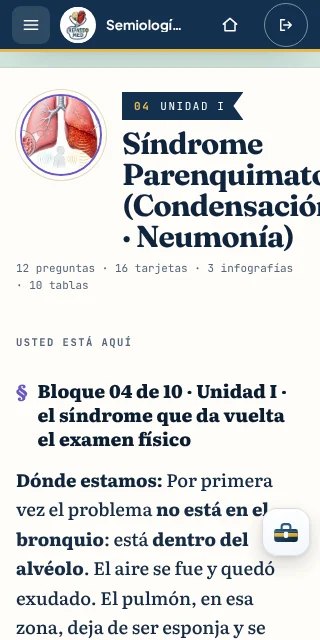
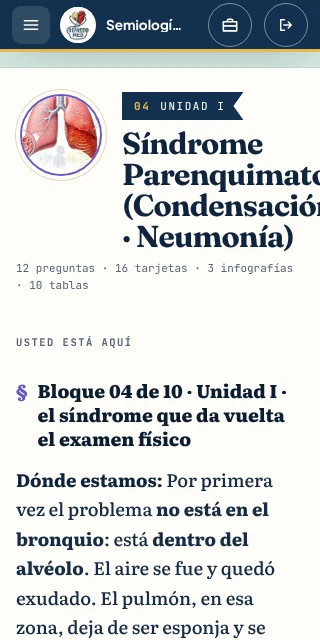
fix(semiologia-ii): ferramentas de estudio (caneta) não cobrem a leitura no celular (< 768 px, só no piloto)
- a maleta flutuante (#rm2-fab) e o trilho vertical da V2 saem da leitura: o controle vira o botão «Herramientas» da faixa fixa (delega o clique ao #rm2-fab original) e a toolbox abre como barra horizontal embaixo, com espaço reservado (--rm-dock-h)
- o botão da faixa não conta como «clique fora» da V2 (senão fechar com o dedo fechava e reabria); motor da caneta intocado
- «Materias» sai da faixa em ≤ 440 px (Volver arriba segue na gaveta)
- testes: sistema.test.cjs 124 (§11: 320/390, toque real, lápis, cor, grossura, escrita, persistência, goma, desfazer, fechar, índice); capturas e antes/depois da caneta

Claude-Session: https://claude.ai/code/session_01JLPWR64NLJn2bckj9LWwJP

Changed region(s): [[0.8125, 0.8125, 0.9688, 0.875], [0.6875, 0.0, 0.75, 0.0625]]

diff --git a/Repasso-Med-Site--main/Atual - Copia/assets/rm-materia-sistema.js b/Repasso-Med-Site--main/Atual - Copia/assets/rm-materia-sistema.js
@@ -389,6 +389,49 @@
     refletir();
   }
 
+  /* Ferramentas de estudio (lápis/marcador/goma): no celular o botão-maleta flutuante e o trilho vertical da V2 ficavam SOBRE tabelas e notas.
+     Só no piloto e só < 768 px (CSS): o botão da maleta vira um botão da faixa fixa (este) que DELEGA o clique ao #rm2-fab original, e a toolbox
+     abre como uma barra horizontal encostada embaixo (dock) com espaço reservado (--rm-dock-h) — o motor da caneta (traço, goma, gravação,
+     âncoras, estado armado) não é tocado: só posição/forma por CSS e este espelho de estado (aria-expanded / «armado»). */
+  var ICO_TOOLS = 'M4 8h16v11H4zM9 8V6a1 1 0 0 1 1-1h4a1 1 0 0 1 1 1v2M4 13h16';
+  function ferramentas() {
+    function ligar() {
+      if (!S) return true;
+      if (S.tools) return true;
+      var fab = document.getElementById('rm2-fab'), box = fab && fab.closest('.rm2-box');
+      if (!fab || !box) return false;
+      var b = ui('button', 'rm-sis-tools', { type: 'button', 'aria-label': 'Herramientas de estudio: lápiz, marcador y goma', title: 'Herramientas de estudio', 'aria-expanded': 'false', 'aria-controls': 'rm2-panel' });
+      var sv = document.createElementNS('http://www.w3.org/2000/svg', 'svg');
+      sv.setAttribute('viewBox', '0 0 24 24'); sv.setAttribute('width', '20'); sv.setAttribute('height', '20'); sv.setAttribute('fill', 'none'); sv.setAttribute('stroke', 'currentColor');
+      sv.setAttribute('stroke-width', '1.9'); sv.setAttribute('stroke-linecap', 'round'); sv.setAttribute('stroke-linejoin', 'round'); sv.setAttribute('aria-hidden', 'true');
+      var pt = document.createElementNS('http://www.w3.org/2000/svg', 'path'); pt.setAttribute('d', ICO_TOOLS); sv.appendChild(pt); b.appendChild(sv);
+      var out = q1(S.band, '.rm-sis-out'); S.band.insertBefore(b, out || null);
+      S.tools = b;
+      var sync = function () {
+        if (!S) return;
+        var open = box.classList.contains('open');
+        b.setAttribute('aria-expanded', String(open)); b.classList.toggle('is-open', open); b.classList.toggle('is-armed', fab.classList.contains('armed'));
+        var h = (open && getComputedStyle(box).display !== 'none') ? Math.round(box.getBoundingClientRect().height) : 0;
+        ROOT.style.setProperty('--rm-dock-h', h + 'px');
+      };
+      S.toolsSync = sync;
+      try { S.toolsMO = new MutationObserver(sync); S.toolsMO.observe(box, { attributes: true, attributeFilter: ['class'] }); S.toolsMO.observe(fab, { attributes: true, attributeFilter: ['class', 'aria-expanded'] }); } catch (e) {}
+      try { if (window.ResizeObserver) { S.toolsRO = new ResizeObserver(sync); S.toolsRO.observe(box); } } catch (e) {}
+      window.addEventListener('resize', sync);
+      /* A V2 minimiza a toolbox em qualquer pointerdown FORA dela e depois o clique reabriria (o botão da faixa não está dentro de .rm2-box):
+         com o dedo, tocar para FECHAR fecharia e reabriria. Este botão é o próprio FAB espelhado, então o pointerdown dele não conta como «fora». */
+      S.toolsPtr = function (e) { var t = e.target; if (t && t.closest && t.closest('.rm-sis-tools')) e.stopPropagation(); };
+      window.addEventListener('pointerdown', S.toolsPtr, true);
+      sync();
+      return true;
+    }
+    if (ligar()) return;
+    try {                                            // a toolbox da V2 é montada depois da aba: espera ela aparecer
+      S.toolsWait = new MutationObserver(function () { if (ligar()) { try { S.toolsWait.disconnect(); } catch (e) {} } });
+      S.toolsWait.observe(document.body, { childList: true });
+    } catch (e) {}
+  }
+
   /* «Inicio · índice de la materia» · «Bloque 04 · Síndrome Parenquimatoso» · «Modo · Preguntas» */
   function etiquetaPosicion() {
     if (!S || !S.pos) return;
@@ -462,6 +505,8 @@
       if (sec) ir(sec.el);
       return;
     }
+    var st2 = t.closest('.rm-sis-tools');
+    if (st2) { var fb = document.getElementById('rm2-fab'); if (fb) fb.click(); return; }
     var so = t.closest('.rm-sis-out');
     if (so) { var f = document.getElementById('logout-fab'); if (f) f.click(); return; }
     var p = t.closest('.rm-sis-pill');
@@ -529,6 +574,7 @@
       });
       if (S.lateral) S.mo.observe(S.lateral, { attributes: true, subtree: true, attributeFilter: ['aria-current'] });
     } catch (e) {}
+    ferramentas();
     refletir();
     if (window.RMLayout.pedirReposicao) window.RMLayout.pedirReposicao();    // as alturas mudaram: a tinta acompanha (API pública, coalescida)
     remedir();
@@ -546,6 +592,8 @@
     try { window.removeEventListener('scroll', S.h.stuck); window.removeEventListener('resize', S.h.stuck); } catch (e) {}
     ROOT.removeAttribute('data-rm-stuck');
     try { if (S.mo) S.mo.disconnect(); } catch (e) {}
+    try { if (S.toolsMO) S.toolsMO.disconnect(); if (S.toolsRO) S.toolsRO.disconnect(); if (S.toolsWait) S.toolsWait.disconnect(); window.removeEventListener('resize', S.toolsSync); if (S.toolsPtr) window.removeEventListener('pointerdown', S.toolsPtr, true); } catch (e) {}
+    ROOT.style.removeProperty('--rm-dock-h');
     NODOS.forEach(function (n) { if (n && n.parentNode) n.parentNode.removeChild(n); });
     ATRS.forEach(function (a) { try { a.e.removeAttribute(a.k); } catch (e) {} });
     TEXTOS.slice().reverse().forEach(function (x) { try { x.e.textContent = x.t; } catch (e) {} });

diff --git a/Repasso-Med-Site--main/Atual - Copia/assets/rm-materia-sistema.css b/Repasso-Med-Site--main/Atual - Copia/assets/rm-materia-sistema.css
@@ -208,6 +208,51 @@ html.rm-sis .rm-l2-band button.rm-sis-out:focus-visible { outline: 3px solid var
 html.rm-sis #materias-container { padding-bottom: calc(var(--rm-player-h, 0px) + var(--rm-safe-b, 0px) + 28px); }
 
 /* ---------------------------------------------------------------------
+   5-C · FERRAMENTAS DE ESTUDIO no celular (< 768 px, só no piloto)
+   A maleta flutuante (#rm2-fab) e o trilho vertical da V2 ficavam SOBRE tabelas e notas. Aqui: (1) o controle vira um botão da faixa fixa
+   (.rm-sis-tools, delega o clique ao #rm2-fab, que continua no DOM — oculto); (2) a toolbox abre como uma BARRA horizontal encostada embaixo
+   (dock), rolável de lado, com espaço reservado ao fim da leitura (--rm-dock-h, medido pelo JS). Só apresentação: o motor da caneta
+   (traço, goma, gravação, âncoras, estado armado, a rotina de abrir/fechar) é o original.
+   --------------------------------------------------------------------- */
+html.rm-sis .rm-sis-tools {
+  display: none; align-items: center; justify-content: center; flex: 0 0 auto; width: 44px; min-width: 44px; min-height: 44px; padding: 0; margin-left: 2px;
+  border: 1.5px solid rgba(255, 255, 255, .45); border-radius: 99px; background: transparent; color: #fff; cursor: pointer;
+}
+html.rm-sis .rm-sis-tools:hover { background: rgba(255, 255, 255, .14); }
+html.rm-sis .rm-sis-tools.is-open { background: rgba(255, 255, 255, .2); }
+html.rm-sis .rm-sis-tools.is-armed { border-color: var(--rm-gold); box-shadow: 0 0 0 2px rgba(233, 185, 73, .35); color: var(--rm-gold); }
+html.rm-sis .rm-l2-band button.rm-sis-tools:focus-visible { outline: 3px solid var(--rm-gold); outline-offset: 2px; }
+@media (max-width: 767.98px) {
+  html.rm-sis .rm-sis-tools { display: inline-flex; }
+  html.rm-sis.rm-l2 .rm2-fab { display: none !important; }                                   /* a maleta flutuante sai da leitura */
+  html.rm-sis.rm-l2 .rm2-box {
+    top: auto; transform: none; left: 0; right: 0; width: auto; display: none; gap: 0;
+    bottom: calc(var(--rm-player-h, 0px) + var(--rm-safe-b, 0px));
+  }
+  html.rm-sis.rm-l2 .rm2-box.open { display: block; }
+  html.rm-sis.rm-l2 .rm2-panel {
+    flex-direction: row; align-items: center; justify-content: flex-start; gap: 4px; width: 100%; max-width: none; box-sizing: border-box;
+    padding: 6px 10px calc(6px + env(safe-area-inset-bottom, 0px)); max-height: none; overflow-x: auto; overflow-y: hidden; -webkit-overflow-scrolling: touch;
+    border-radius: 16px 16px 0 0; border-width: 1px 0 0; border-color: rgba(16, 36, 61, .16);
+    background: var(--rm-paper); box-shadow: 0 -10px 24px -14px rgba(8, 23, 38, .45);
+    scrollbar-width: none;
+  }
+  html.rm-sis.rm-l2 .rm2-panel::-webkit-scrollbar { display: none; }
+  html.rm-sis.rm-l2 .rm2-panel .rm2-btn { flex: 0 0 44px; width: 44px; height: 44px; }
+  html.rm-sis.rm-l2 .rm2-panel .rm2-sub { flex-direction: row; padding: 0 4px; gap: 5px; flex: 0 0 auto; }
+  html.rm-sis.rm-l2 .rm2-panel .rm2-sub .rm2-sub { padding: 0; }
+  html.rm-sis.rm-l2 .rm2-panel .rm2-sw { width: 28px; height: 28px; flex: 0 0 28px; }
+  html.rm-sis.rm-l2 .rm2-panel .rm2-w { width: 32px; height: 28px; flex: 0 0 32px; }
+  html.rm-sis.rm-l2 .rm2-panel .rm2-sep { width: 1px; height: 28px; margin: 0 4px; flex: 0 0 1px; }
+  html.rm-sis.rm-l2 .rm2-btn.on::before { left: 11px; top: auto; bottom: -3px; width: 22px; height: 3px; }   /* marca dourada de «ativo» passa para baixo do ícone */
+  /* mensagens passageiras («Lápiz activo…») sobem para cima do dock em vez de cobrir a leitura por baixo dele */
+  html.rm-sis.rm-l2 .rm-toast { bottom: calc(var(--rm-dock-h, 0px) + var(--rm-player-h, 0px) + var(--rm-safe-b, 0px) + 14px); }
+  /* espaço reservado: com o dock aberto a última linha da página rola até ficar acima dele */
+  html.rm-sis #materias-container { padding-bottom: calc(var(--rm-player-h, 0px) + var(--rm-safe-b, 0px) + var(--rm-dock-h, 0px) + 28px); }
+}
+@media (max-width: 440px) { html.rm-sis .rm-l2-band .rm-l2-mat { display: none; } }          /* «Materias» (voltar ao topo) = «Volver arriba» da gaveta; abre espaço para as ferramentas */
+
+/* ---------------------------------------------------------------------
    6 · C-02 · índice lateral L1-COLOR (superfície mais clara da família do tema)
    --------------------------------------------------------------------- */
 html.rm-sis .rm-l2-side {

diff --git a/Repasso-Med-Site--main/Atual - Copia/SISTEMA-VISUAL-MATERIAS.md b/Repasso-Med-Site--main/Atual - Copia/SISTEMA-VISUAL-MATERIAS.md
@@ -49,3 +49,11 @@ Toda UI derivada leva `[data-rm-ui]` (fora do índice de marca-texto e das ânco
 O botão flutuante verde do site (`#logout-fab`, canto inferior direito) cobria a leitura no celular. No piloto ele fica oculto (CSS) e o mesmo controle
 passa a viver na faixa fixa (`.rm-sis-out`, alvo ≥ 44 px, só ícone abaixo de 480 px); o clique é **delegado** ao `#logout-fab` original, que continua no DOM.
 Fora do piloto nada muda. Teste: `sistema.test.cjs` §9–10 (320/390/768/1440, 6 paradas de rolagem, gaveta do índice, caneta armada).
+
+## Ferramentas de estudio (caneta) no celular (< 768 px, só no piloto)
+A maleta flutuante (`#rm2-fab`) e o trilho vertical da V2 ficavam sobre tabelas e notas. No piloto, abaixo de 768 px: o controle vira o botão «Herramientas»
+da faixa fixa (`.rm-sis-tools`, ≥ 44 px, anel dourado quando há ferramenta armada), que **delega o clique ao `#rm2-fab` original** (oculto); a toolbox abre como uma
+**barra horizontal encostada embaixo** (rolável de lado) e o conteúdo ganha espaço reservado (`--rm-dock-h`, medido pelo JS). O motor da caneta (traço, goma, gravação,
+âncoras, estado armado, abrir/fechar) é o original e não foi alterado; o botão da faixa só impede que o próprio toque seja tratado como «clique fora» (que minimizaria
+a toolbox e a reabriria em seguida). Em ≤ 440 px o botão «Materias» (voltar ao topo) sai da faixa para dar espaço — «Volver arriba» continua na gaveta do índice.
+Em ≥ 768 px nada muda (a raia direita já é reservada pelo layout).

diff --git a/tools/qa/browser-qa/layout/capturas-sistema/README.md b/tools/qa/browser-qa/layout/capturas-sistema/README.md
@@ -6,3 +6,4 @@ baixadas à parte só para a captura. A caixa «Marcador/Goma» flutuante é a t
 - `antes/` — abertura (início) como estava no HEAD d637ee5 (cabeçalho global + abas + faixa com 2 logos, ≈ 176 px).
 - `antes-depois_desktop-1440.webp` · `antes-depois_celular-390.webp` — antes × depois da entrada compacta (≈ 138 px, 1 logo; a faixa mostra a marca só quando gruda).
 - `antes-depois-sair/` — celular 390 e 320: o botão flutuante verde «Sair» cobria tabela, post-it e controles da caneta (ANTES, HEAD d72b750); agora o mesmo controle fica na faixa fixa (DEPOIS). Todas as capturas `celular-390_*` e `celular-320_*` são do estado final.
+- `antes-depois-caneta/` — celular 390 e 320. Caso 1: a maleta flutuante cobria a tabela com a caneta FECHADA. Caso 2: o trilho vertical da caneta cobria o texto do post-it/tabela com a caneta ABERTA. DEPOIS: o controle vai para a faixa fixa e a toolbox abre como barra horizontal embaixo, com espaço reservado. ANTES = HEAD 1a419a8, DEPOIS = HEAD final, mesmo script.
